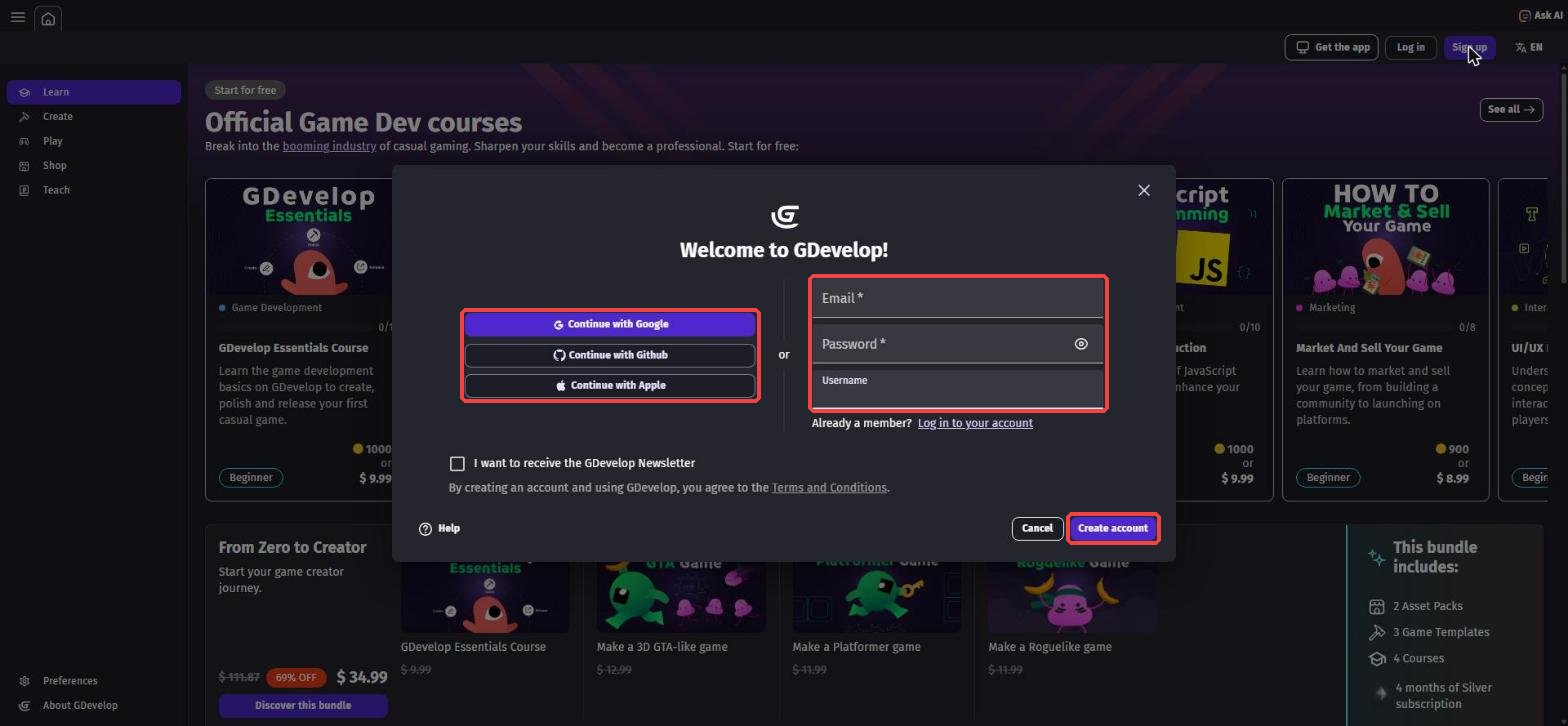
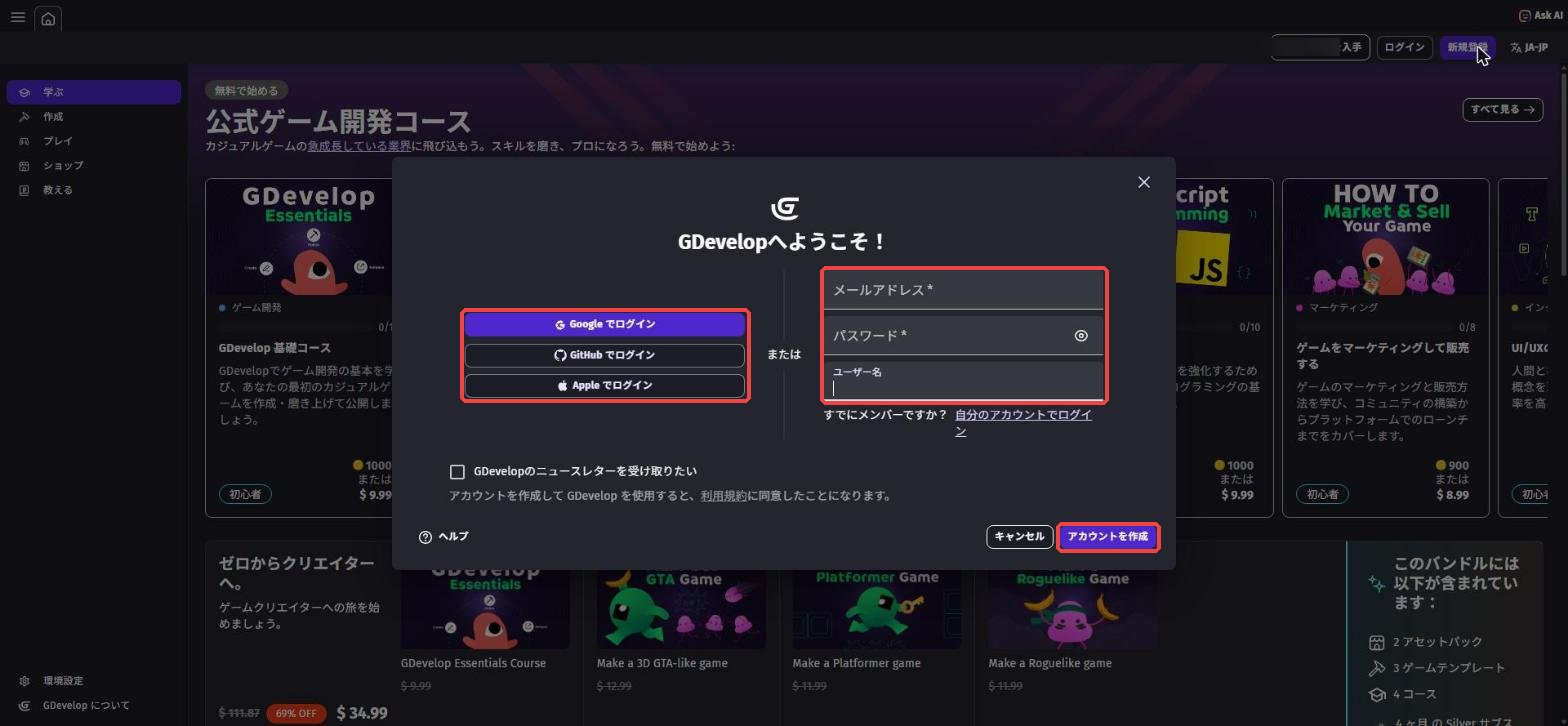
ローグライク編 日本語UI版の第0章を日本語UIに合わせて作り直す、アニメーション名が英語で表示される理由を補足
Claude-Session: https://claude.ai/code/session_01DMPnKNKC4bdQV9DJ2hiqQu

diff --git a/gdevelop-roguelike-ja/chapter0.html b/gdevelop-roguelike-ja/chapter0.html
@@ -130,10 +130,12 @@
       <p><code>https://editor.gdevelop.io</code></p>
       <p>しばらく読み込みがあって、GDevelopのホーム画面が表示されたら成功です。<br>
         初回は表示まで少し時間がかかることがあります。<br>
-        左はしに「<strong>Learn</strong>」「<strong>作成</strong>」「<strong>Play</strong>」「<strong>Shop</strong>」「<strong>Teach</strong>」というメニューが並んでいるのがホーム画面です。</p>
+        左はしに「<strong>学ぶ</strong>」「<strong>作成</strong>」「<strong>プレイ</strong>」「<strong>ショップ</strong>」「<strong>教える</strong>」というメニューが並んでいるのがホーム画面です。<br>
+        最初は英語で表示されることがあります（そのときは「Learn」「Create」「Play」「Shop」「Teach」）。<br>
+        日本語への切り替えは、このあとの手順6でやります。</p>
       <figure class="figure">
-        <a href="img/ch0-01_editor-home.jpg" target="_blank" rel="noopener" title="クリックで大きく表示"><img src="img/ch0-01_editor-home.jpg" alt="editor.gdevelop.io を開いたホーム画面。左はしにLearn・作成・Play・Shop・Teachのメニューがある" loading="lazy"></a>
-        <figcaption>editor.gdevelop.io を開いたホーム画面。左はしにLearn・作成・Play・Shop・Teachのメニューがある</figcaption>
+        <a href="img/ch0-01_editor-home.jpg" target="_blank" rel="noopener" title="クリックで大きく表示"><img src="img/ch0-01_editor-home.jpg" alt="editor.gdevelop.io を開いたホーム画面。左はしに学ぶ・作成・プレイ・ショップ・教えるのメニューがある（赤枠）" loading="lazy"></a>
+        <figcaption>editor.gdevelop.io を開いたホーム画面。左はしに「学ぶ」「作成」「プレイ」「ショップ」「教える」のメニューがある（赤枠）</figcaption>
       </figure>
     </div>
 
@@ -147,27 +149,29 @@
 
     <div class="step">
       <span class="step-num">3</span><span class="step-title">アカウント作成の画面を開く</span>
-      <p>ホーム画面の右上にある「<strong>テスト記号 up</strong>」（新しく登録する）のボタンを押します。<br>
-        となりの「<strong>Log in</strong>」は、もうアカウントを持っている人がログインするボタンです。<br>
+      <p>ホーム画面の右上にある「<strong>新規登録</strong>」のボタンを押します。<br>
+        となりの「<strong>ログイン</strong>」は、もうアカウントを持っている人がログインするボタンです。<br>
+        まだ英語の表示なら「Sign up」「Log in」と書いてあります（表示を日本語にするのは手順6でやります）。<br>
         ボタンの名前や位置は、時期によって少し変わることがあります。</p>
       <figure class="figure">
-        <a href="img/ch0-02_create-account.jpg" target="_blank" rel="noopener" title="クリックで大きく表示"><img src="img/ch0-02_create-account.jpg" alt="ログアウトしているときのホーム画面。右上に「Log in」と「テスト記号 up」のボタンがある" loading="lazy"></a>
-        <figcaption>ログアウトしているときのホーム画面。右上に「Log in」と「テスト記号 up」のボタンがある</figcaption>
+        <a href="img/ch0-02_create-account.jpg" target="_blank" rel="noopener" title="クリックで大きく表示"><img src="img/ch0-02_create-account.jpg" alt="ログアウトしているときのホーム画面。右上に「ログイン」と「新規登録」のボタンがある" loading="lazy"></a>
+        <figcaption>ログアウトしているときのホーム画面。右上に「ログイン」と「新規登録」のボタンがある</figcaption>
       </figure>
     </div>
 
     <div class="step">
       <span class="step-num">4</span><span class="step-title">メールアドレスとパスワードを登録する</span>
-      <p>「Welcome to GDevelop!」の画面で、<strong>Email</strong>（メールアドレス）、<strong>Password</strong>（パスワード）、<strong>Username</strong>（ユーザー名）を入力して、右下の「<strong>作成 account</strong>」を押します。<br>
-        左の「Continue with Google」などのボタンで登録してもOKです（保護者の方と相談してね）。</p>
+      <p>「GDevelopへようこそ！」の画面で、<strong>メールアドレス</strong>、<strong>パスワード</strong>、<strong>ユーザー名</strong>を入力して、右下の「<strong>アカウントを作成</strong>」を押します。<br>
+        左の「Google でログイン」などのボタンで登録してもOKです（保護者の方と相談してね）。<br>
+        英語の表示なら、入力欄は Email・Password・Username、ボタンは「Create account」です。</p>
       <ul>
         <li><strong>ユーザー名</strong>は本名にしない。ニックネームを半角英数字で付けよう</li>
         <li><strong>パスワード</strong>は紙のノートなど、なくさない場所にメモしておく</li>
         <li>確認メールが届いたら、メールの中のボタンを押して登録を完了させる</li>
       </ul>
       <figure class="figure">
-        <a href="img/ch0-03_signup-form.jpg" target="_blank" rel="noopener" title="クリックで大きく表示"><img src="img/ch0-03_signup-form.jpg" alt="テスト記号 up を押すと出る登録画面。Email・Password・Username を入れて「作成 account」" loading="lazy"></a>
-        <figcaption>テスト記号 up を押すと出る登録画面。Email・Password・Username を入れて「作成 account」</figcaption>
+        <a href="img/ch0-03_signup-form.jpg" target="_blank" rel="noopener" title="クリックで大きく表示"><img src="img/ch0-03_signup-form.jpg" alt="新規登録を押すと出る「GDevelopへようこそ！」の画面。メールアドレス・パスワード・ユーザー名を入れて「アカウントを作成」" loading="lazy"></a>
+        <figcaption>新規登録を押すと出る「GDevelopへようこそ！」の画面。メールアドレス・パスワード・ユーザー名を入れて「アカウントを作成」</figcaption>
       </figure>
     </div>
 
@@ -176,18 +180,20 @@
       <p>ホーム画面の右上に、<strong>自分のユーザー名やアイコン</strong>が表示されていればログインできています。<br>
         一度ブラウザを閉じて、もう一度 <code>https://editor.gdevelop.io</code> を開いても、ログインしたままになっているか確かめよう。</p>
       <figure class="figure">
-        <a href="img/ch0-04_logged-in.jpg" target="_blank" rel="noopener" title="クリックで大きく表示"><img src="img/ch0-04_logged-in.jpg" alt="ログインできたホーム画面。右上に自分のアカウント（アイコン）が表示されている" loading="lazy"></a>
-        <figcaption>ログインできたホーム画面。右上に自分のアカウント（アイコン）が表示されている</figcaption>
+        <a href="img/ch0-04_logged-in.jpg" target="_blank" rel="noopener" title="クリックで大きく表示"><img src="img/ch0-04_logged-in.jpg" alt="ログインできたホーム画面。右上の「プレミアムを入手」の左に自分のアカウントが表示されている（赤枠）" loading="lazy"></a>
+        <figcaption>ログインできたホーム画面。右上の「プレミアムを入手」の左に、自分のアカウントが表示されている（赤枠）</figcaption>
       </figure>
     </div>
 
     <div class="step">
-      <span class="step-num">6</span><span class="step-title">表示を日本語にする</span>
-      <p>この教科書は、GDevelopを<strong>日本語の表示</strong>で使う人のための版です。<br>
-        教科書のボタン名は、日本語の表示に合わせて書いてあります。</p>
-      <p>画面の右上にある、言語のボタン（「<strong>JA</strong>」や「<strong>EN</strong>」と書いてある、文字のマークのボタン）を押します。<br>
-        「<strong>言語</strong>」の画面が開いたら、選ぶ欄を「<strong>日本語 (Japanese)</strong>」にして「<strong>閉じる</strong>」を押そう。<br>
-        英語の表示だと、このボタンを押すと「Language」という画面が開きます。<br>
+      <span class="step-num">6</span><span class="step-title">表示を日本語に切り替える</span>
+      <p>この教科書（日本語UI版）では、GDevelopを<strong>日本語の表示</strong>で使います。<br>
+        教科書のボタン名がすべて日本語の画面に合わせて書いてあるので、表示をそろえておくと迷子になりません。</p>
+      <p>画面の右上にある、言語のボタン（「<strong>EN</strong>」や「<strong>JA-JP</strong>」と書いてある、文字のマークのボタン）を押します。<br>
+        英語の表示だと「<strong>Language</strong>」という画面が開くので、選ぶ欄を「<strong>日本語 (Japanese)</strong>」にしよう。<br>
+        表示が日本語に変わり、画面の名前も「<strong>言語</strong>」になります。<br>
+        「<strong>GDevelopで使用する言語を選択</strong>」の欄が「<strong>日本語 (Japanese)</strong>」になっていたら、「<strong>閉じる</strong>」を押して完了です。<br>
+        はじめから日本語の表示になっていた人は、そのままでOK。<br>
         うまくいかなければ、そのままで大丈夫。<br>
         第1回の最初に一緒に設定します。</p>
       <div class="term">
@@ -195,15 +201,15 @@
         家のPCと教室のPCで表示がちがっていたら、もう一度このボタンで日本語にしよう。
       </div>
       <figure class="figure">
-        <a href="img/ch0-05_language-setting.jpg" target="_blank" rel="noopener" title="クリックで大きく表示"><img src="img/ch0-05_language-setting.jpg" alt="右上の言語ボタン（赤枠）を押すと言語の画面が開く。日本語 (Japanese) を選んで閉じる（赤枠）" loading="lazy"></a>
-        <figcaption>右上の言語ボタン（赤枠）を押すと「言語」の画面が開く。「日本語 (Japanese)」を選んで「閉じる」（赤枠）</figcaption>
+        <a href="img/ch0-05_language-setting.jpg" target="_blank" rel="noopener" title="クリックで大きく表示"><img src="img/ch0-05_language-setting.jpg" alt="右上の言語ボタン（JA-JP、赤枠）を押すと「言語」の画面が開く。「日本語 (Japanese)」を選ぶ" loading="lazy"></a>
+        <figcaption>右上の言語ボタン（赤枠）を押すと「言語」の画面が開く。「日本語 (Japanese)」を選んで「閉じる」</figcaption>
       </figure>
     </div>
 
     <h2>0-4. 無料プランで気をつけること</h2>
     <p>
       GDevelopの無料プランでは、アカウントに保存できるプロジェクト（ゲーム1本分のデータ）は<strong>3つまで</strong>です。<br>
-      上限に達すると「<strong>Maximum of 3 cloud projects reached</strong>」と表示されて、新しいプロジェクトを作れなくなります。<br>
+      上限に達すると「<strong>最大3のクラウドプロジェクトに達しました。</strong>」と表示されて、新しいプロジェクトを作れなくなります。<br>
       <strong>この講座では、ゲームを1本（プロジェクト1つ）だけ作ります。</strong><br>
       GDevelopコースの3つの編（2D横スクロールアクション・3Dアクション・ローグライク）を全部やっても、ちょうど3つに収まります。<br>
       上限に引っかからないように、<strong>講習が始まるまでは新しいプロジェクトを作らずに待っていてね</strong>。
@@ -228,8 +234,8 @@
       無料プランのままでも、下の方法で4本目からのゲームを作れます。
     </p>
     <figure class="figure">
-      <a href="img/ch0-10_cloud-limit-banner.jpg" target="_blank" rel="noopener" title="クリックで大きく表示"><img src="img/ch0-10_cloud-limit-banner.jpg" alt="ホーム画面の下に「Maximum of 3 cloud projects reached」のお知らせ（赤枠）が出ている" loading="lazy"></a>
-      <figcaption>上限に達すると「Maximum of 3 cloud projects reached」（赤枠）と表示される</figcaption>
+      <a href="img/ch0-10_cloud-limit-banner.jpg" target="_blank" rel="noopener" title="クリックで大きく表示"><img src="img/ch0-10_cloud-limit-banner.jpg" alt="ホーム画面の下に「最大3のクラウドプロジェクトに達しました。」のお知らせ（赤枠）が出ている" loading="lazy"></a>
+      <figcaption>上限に達すると「最大3のクラウドプロジェクトに達しました。」（赤枠）と表示される</figcaption>
     </figure>
 
     <h4>方法1：GDevelopのアプリ版を使う（おすすめ）</h4>
@@ -237,7 +243,7 @@
       GDevelopには、PCにインストールして使う無料のアプリ版（デスクトップアプリ）があります。<br>
       アプリ版では、プロジェクトを自分のPCの中に保存できます。<br>
       PCに保存したプロジェクトは、3つの上限に数えられません。<br>
-      アプリは、画面右上の「<strong>Get the app</strong>」か、公式サイト <code>gdevelop.io</code> からダウンロードできます。<br>
+      アプリは、画面右上の「<strong>アプリを入手</strong>」か、公式サイト <code>gdevelop.io</code> からダウンロードできます。<br>
       インストールは、保護者の方と一緒にやろう。
     </p>
     <div class="term">
@@ -249,24 +255,24 @@
     <h4>方法2：コピーをPCに残してから、クラウドのプロジェクトを消す</h4>
     <p>
       もう作り終わったゲームを、クラウドからPCに移して、枠を1つ空ける方法です。<br>
-      ① ゲームを開いた状態で、左上の「<strong>≡</strong>」→「<strong>File</strong>」→「<strong>Save as...</strong>」を選びます。<br>
-      ②「<strong>Download a copy</strong>」を押します。<br>
-      次の画面で「<strong>Download the compressed game and resources</strong>」を押します。<br>
+      ① ゲームを開いた状態で、左上の「<strong>≡</strong>」→「<strong>ファイル</strong>」→「<strong>名前をつけて保存</strong>」を選びます。<br>
+      ②「<strong>コピーをダウンロード</strong>」を押します。<br>
+      次の画面で、紫色のボタン（ゲームと素材をまとめてダウンロードするボタン）を押します。<br>
       ゲームのデータが「<strong>gdevelop-game.zip</strong>」という名前のzipファイルで、PCの「ダウンロード」フォルダに保存されます。<br>
       何本も保存すると全部同じ名前になるので、どのゲームかわかる名前に変えておこう。<br>
-      ③ ホーム画面の「<strong>Games</strong>」の一覧で、消したいゲームの右にある「<strong>⋮</strong>」→「<strong>Delete</strong>」を押すと、クラウドから消えて枠が1つ空きます。
+      ③ ホーム画面の「<strong>ゲーム</strong>」の一覧で、消したいゲームの右にある「<strong>⋮</strong>」→「<strong>削除</strong>」を押すと、クラウドから消えて枠が1つ空きます。
     </p>
     <figure class="figure">
-      <a href="img/ch0-11_file-save-as.jpg" target="_blank" rel="noopener" title="クリックで大きく表示"><img src="img/ch0-11_file-save-as.jpg" alt="Fileメニューを開き、Save as...（赤枠）を選ぶところ" loading="lazy"></a>
-      <figcaption>① Fileメニューの「Save as...」（赤枠）</figcaption>
+      <a href="img/ch0-11_file-save-as.jpg" target="_blank" rel="noopener" title="クリックで大きく表示"><img src="img/ch0-11_file-save-as.jpg" alt="ファイルメニューを開き、名前をつけて保存（赤枠）を選ぶところ" loading="lazy"></a>
+      <figcaption>① ファイルメニューの「名前をつけて保存」（赤枠）</figcaption>
     </figure>
     <figure class="figure">
-      <a href="img/ch0-12_save-as-download.jpg" target="_blank" rel="noopener" title="クリックで大きく表示"><img src="img/ch0-12_save-as-download.jpg" alt="Choose where to save the project to の画面で、Download a copy（赤枠）を選ぶ" loading="lazy"></a>
-      <figcaption>②「Download a copy」（赤枠）でPCにコピーを保存する</figcaption>
+      <a href="img/ch0-12_save-as-download.jpg" target="_blank" rel="noopener" title="クリックで大きく表示"><img src="img/ch0-12_save-as-download.jpg" alt="「プロジェクトを保存する場所を選択」の画面で、コピーをダウンロード（赤枠）を選ぶ" loading="lazy"></a>
+      <figcaption>②「コピーをダウンロード」（赤枠）でPCにコピーを保存する。上限に達していると、上にアップグレードのお知らせも出る</figcaption>
     </figure>
     <figure class="figure">
-      <a href="img/ch0-14_project-delete-menu.jpg" target="_blank" rel="noopener" title="クリックで大きく表示"><img src="img/ch0-14_project-delete-menu.jpg" alt="ホーム画面のGames一覧で、ゲームの右の⋮を押すとDelete（赤枠）が出る" loading="lazy"></a>
-      <figcaption>③ ゲームの右の「⋮」を押すと「Delete」（赤枠）が出る</figcaption>
+      <a href="img/ch0-14_project-delete-menu.jpg" target="_blank" rel="noopener" title="クリックで大きく表示"><img src="img/ch0-14_project-delete-menu.jpg" alt="ホーム画面のゲーム一覧で、ゲームの右の⋮を押すと削除（赤枠）が出る" loading="lazy"></a>
+      <figcaption>③ ゲームの右の「⋮」を押すと「削除」（赤枠）が出る</figcaption>
     </figure>
     <div class="trouble">
       <h4>方法2の注意</h4>
@@ -275,14 +281,14 @@
         講習で作っているゲームは消さないでね。<br>
         消す前に、保護者の方か講師に確認しよう。</p>
       <p><strong>ブラウザ版では、保存したコピーを開けません。</strong><br>
-        ブラウザ版で「File」→「Open...」を押しても、アプリ版で開く方法しか出てきません。<br>
+        ブラウザ版で「ファイル」→「開く...」を押しても、アプリ版で開く方法しか出てきません。<br>
         コピーをもう一度開いて続きを作るには、方法1のアプリ版が必要です。<br>
         アセットストアの画像や音は、zipの中ではなくインターネット上に置かれています。<br>
         開き直すときは、ネットにつながっている必要があります。</p>
     </div>
     <figure class="figure">
-      <a href="img/ch0-13_open-desktop-only.jpg" target="_blank" rel="noopener" title="クリックで大きく表示"><img src="img/ch0-13_open-desktop-only.jpg" alt="ブラウザ版のOpenの画面。Open from computer with GDevelop desktop app（赤枠）しか選べない" loading="lazy"></a>
-      <figcaption>ブラウザ版の「Open...」の画面。PCのファイルを開くのはアプリ版だけ（赤枠）</figcaption>
+      <a href="img/ch0-13_open-desktop-only.jpg" target="_blank" rel="noopener" title="クリックで大きく表示"><img src="img/ch0-13_open-desktop-only.jpg" alt="ブラウザ版の「プロジェクトを読み込む場所を選択」の画面。コンピュータからGDevelopデスクトップアプリで開く（赤枠）しか選べない" loading="lazy"></a>
+      <figcaption>ブラウザ版の「開く...」の画面。PCのファイルを開くのはアプリ版だけ（赤枠）</figcaption>
     </figure>
 
     <h4>方法3：有料プランにする</h4>
@@ -317,7 +323,7 @@
     </div>
 
     <div class="trouble">
-      <h4>「This site can't be reached」などと出て開けない</h4>
+      <h4>「このサイトにアクセスできません」（This site can't be reached）などと出て開けない</h4>
       <p><strong>原因:</strong> アドレスの打ちまちがい、またはネットにつながっていない。</p>
       <p><strong>直し方:</strong> <code>editor.gdevelop.io</code> のつづりを確認しよう（gdevelop の「de」と「ve」に注意）。<br>
         ほかのサイトが開けるかも確かめてみよう。</p>
@@ -325,11 +331,11 @@
 
     <div class="trouble">
       <h4>パスワードを忘れた</h4>
-      <p><strong>直し方:</strong> 「Log in」を押して出るログイン画面の「<strong>Did you forget your password?</strong>」から、パスワードを作り直せます。<br>
+      <p><strong>直し方:</strong> 「ログイン」を押して出るログイン画面の「<strong>パスワードをお忘れですか？</strong>」から、パスワードを作り直せます。<br>
         作り直したら、今度こそメモしておこう。</p>
       <figure class="figure">
-        <a href="img/ch0-03b_login-form.jpg" target="_blank" rel="noopener" title="クリックで大きく表示"><img src="img/ch0-03b_login-form.jpg" alt="ログイン画面。下の「Did you forget your password?」からパスワードを作り直せる" loading="lazy"></a>
-        <figcaption>ログイン画面。下の「Did you forget your password?」からパスワードを作り直せる</figcaption>
+        <a href="img/ch0-03b_login-form.jpg" target="_blank" rel="noopener" title="クリックで大きく表示"><img src="img/ch0-03b_login-form.jpg" alt="ログイン画面。下の「パスワードをお忘れですか？」からパスワードを作り直せる" loading="lazy"></a>
+        <figcaption>ログイン画面。下の「パスワードをお忘れですか？」からパスワードを作り直せる</figcaption>
       </figure>
     </div>
 
@@ -355,7 +361,7 @@
   </main>
 
   <footer class="site-footer">
-    横須賀プログラミング"夢"アカデミー GDevelopコース教材
+    横須賀プログラミング"夢"アカデミー GDevelopコース教材（ローグライク編 日本語UI版）
   </footer>
 
   <script src="js/os.js"></script>

diff --git a/gdevelop-3d-ja/chapter4.html b/gdevelop-3d-ja/chapter4.html
@@ -190,7 +190,7 @@
       <p>アクションは2つです。</p>
       <ul>
         <li><code>フォースを追加</code> で検索 →「<strong>オブジェクトに向かって移動するフォースを追加する</strong>」、オブジェクトは <code>Zombie</code>、目標オブジェクトは <code>Player</code>、速度は <code>80</code>、下は「<strong>瞬間的</strong>」のまま</li>
-        <li><code>アニメーション名</code> で検索 →「<strong>アニメーション名</strong>」、オブジェクトは <code>Zombie</code>、アニメーションの名前は一覧から「<strong>Walk</strong>」</li>
+        <li><code>アニメーション名</code> で検索 →「<strong>アニメーション名</strong>」、オブジェクトは <code>Zombie</code>、アニメーションの名前は一覧から「<strong>Walk</strong>」（素材についている名前なので、日本語の画面でも英語のまま表示されます）</li>
       </ul>
       <figure class="figure">
         <a href="img/ch4-08_move-toward.jpg" target="_blank" rel="noopener" title="クリックで大きく表示"><img src="img/ch4-08_move-toward.jpg" alt="「オブジェクトに向かって移動するフォースを追加する」のアクション（赤枠）。Zombie（赤枠）を目標オブジェクトPlayerへ、速度80、瞬間的（赤枠）" loading="lazy"></a>

diff --git a/gdevelop-roguelike-ja/chapter1.html b/gdevelop-roguelike-ja/chapter1.html
@@ -122,7 +122,8 @@
         一覧の <code>Player</code> の「⋮」から「<strong>アセットの交換</strong>」（素材を入れかえる）を選びます。<br>
         検索で <code>knight male</code> と入れて「<strong>Knight Male</strong>」を選び、「<strong>交換</strong>」を押します。<br>
         名前は <code>Player</code> のまま、見た目だけ騎士になります。<br>
-        アニメーションは「Idle」（立つ）「Run」（走る）「Hit」（ダメージ）の3つです。</p>
+        アニメーションは「Idle」（立つ）「Run」（走る）「Hit」（ダメージ）の3つです。<br>
+        アニメーションの名前は素材についている名前なので、日本語の画面でも英語のまま表示されます。</p>
       <figure class="figure">
         <a href="img/ch1-05_swap-knight.jpg" target="_blank" rel="noopener" title="クリックで大きく表示"><img src="img/ch1-05_swap-knight.jpg" alt="Player を別のアセットと交換の画面。Knight Male、アニメーション3つ（赤枠）、交換ボタン（赤枠）" loading="lazy"></a>
         <figcaption>「Knight Male」を選んで「交換」（赤枠）</figcaption>

diff --git a/gdevelop-ja/chapter6.html b/gdevelop-ja/chapter6.html
@@ -140,6 +140,7 @@
     <h3>ワザ2: 走る・跳ぶでアニメーションを切りかえる</h3>
     <p>
       アセットストアのキャラには、「Idle（立ち止まり）」「Run（走る）」「Jump（跳ぶ）」のように、いくつかのアニメーションが入っていることがあります。<br>
+      アニメーションの名前は素材についている名前なので、日本語の画面でも英語のまま表示されます。<br>
       Player をダブルクリックして、どんな名前のアニメーションがあるか見てみよう。
     </p>
     <div class="event-sheet">
